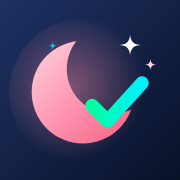
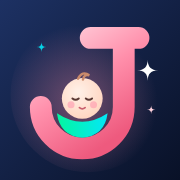
Icono nuevo: J con bebé
Claude-Session: https://claude.ai/code/session_015LZ6EntPraeJPCfxzzsJhi

diff --git a/index.html b/index.html
@@ -7,7 +7,7 @@
 <meta name="apple-mobile-web-app-status-bar-style" content="black-translucent">
 <meta name="apple-mobile-web-app-title" content="Jimena">
 <link rel="manifest" href="manifest.webmanifest">
-<link rel="icon" href="icon-32.png"><link rel="apple-touch-icon" href="icon-180.png">
+<link rel="icon" href="icon-32.png?v=2"><link rel="apple-touch-icon" href="icon-180.png?v=2">
 <link href="https://fonts.googleapis.com/css2?family=Nunito:wght@400;600;700;800;900&display=swap" rel="stylesheet">
 <style>
 :root{--bg:#0B1426;--card:#111D35;--card2:#16244A;--line:#22325A;--tx:#E8EFFA;--mu:#8C9DBC;--ok:#00FFA3;--cy:#00F0FF;--am:#FFC857;--gr:#4A5B7E;--rose:#FF8FAB;--side:250px}

diff --git a/sw.js b/sw.js
@@ -1,4 +1,4 @@
-const C='jimena-v1';
+const C='jimena-v2';
 const CORE=['./','./index.html','./manifest.webmanifest','./logo.svg','./icon-192.png','./icon-512.png','./icon-180.png'];
 self.addEventListener('install',e=>{self.skipWaiting();e.waitUntil(caches.open(C).then(c=>c.addAll(CORE)).catch(()=>{}))});
 self.addEventListener('activate',e=>e.waitUntil(caches.keys().then(ks=>Promise.all(ks.filter(k=>k!==C).map(k=>caches.delete(k)))).then(()=>self.clients.claim())));
